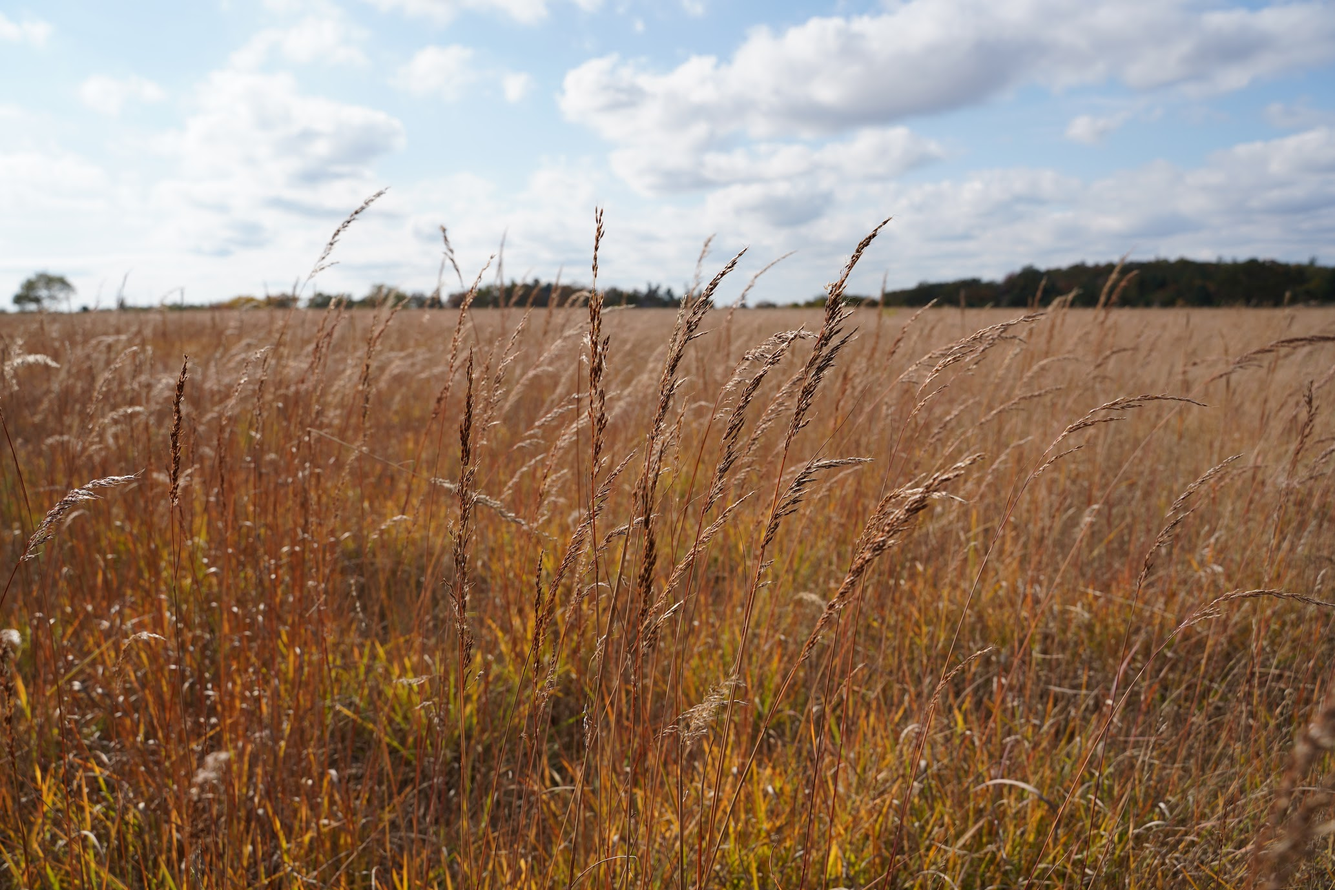
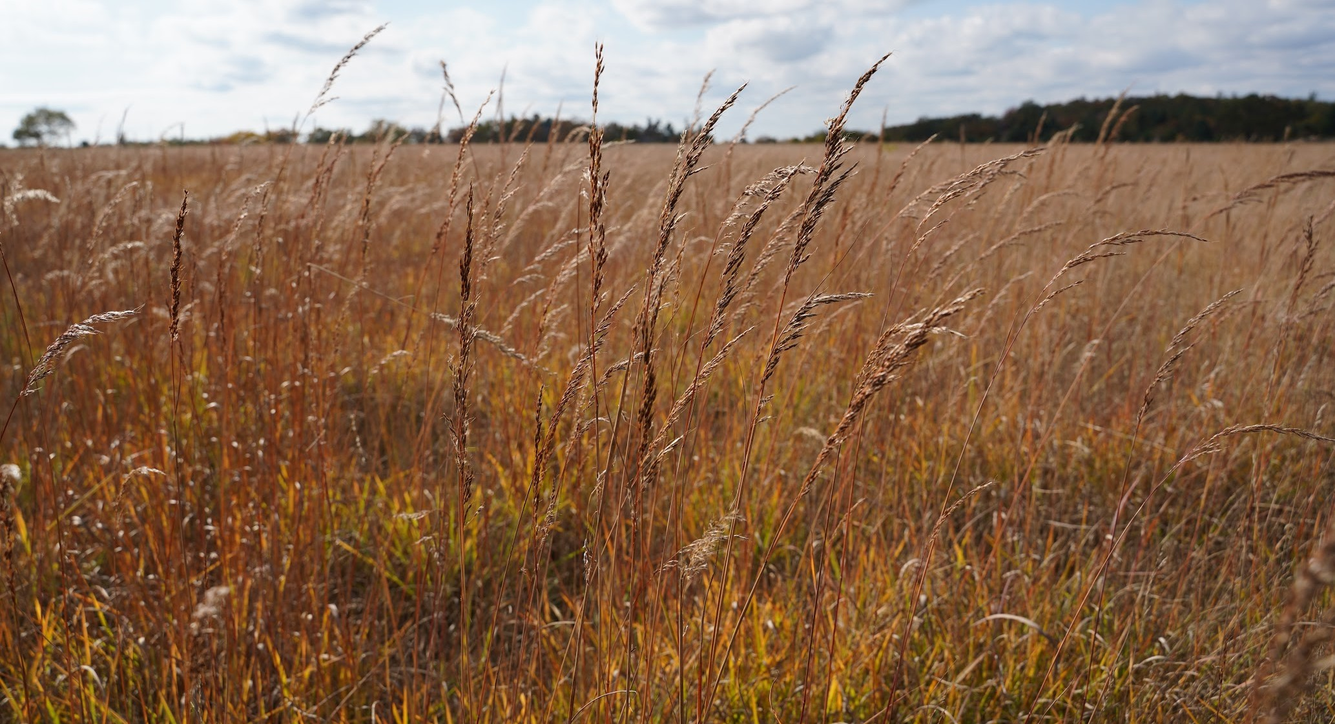
Change headers

diff --git a/index.html b/index.html
@@ -33,7 +33,7 @@
     <section class="col-12 outer-margin">
         <div class="main-header">
             <div class ="header-overlay header-overlay-gradient">
-                <h1 class="header-title">Headwater Streams Mapping in the Rice Lake Plains and Lake Iroquois Plain</h1>
+                <h1 class="page-title">Headwater Streams Mapping in the Rice Lake Plains and Lake Iroquois Plain</h1>
                 <p id="photo-credit">Photo Credit: Chelsea Marcantonio via the Nature Conservancy of Canada</p>
             </div>
         </div>
@@ -69,14 +69,20 @@
             <h3>Kathryn Little</h3>
             <h4>Applications Specialist</h4>
             <p>Bad at chemistry, better at GIS. Thinks volcanoes are cool. She is responsible for administration and documentation.</p>
-            <button type="button" class="button button2" onclick="window.open('mailto:placehoder@gmail.com')">Contact</button>
+            <div class="container">
+                <button type="button" class="button button2" onclick="window.open('mailto:littlekathrynj@gmail.com')">Email</button>
+                <button type="button" class="button button2" onclick="window.open('https://www.linkedin.com/in/littlekathryn/', '_blank')">LinkedIn</button>
+            </div>
         </div>
         <div class="col-4">
             <img class="headshot" src="images/kristine-bitmoji.png" alt="Kristine Headshot">
             <h3>Kristine Luangkhot</h3>
             <h4>Applications Specialist</h4>
             <p>Avid Tetris player and builder of Lego. Loves using software to solve problems. She is responsible for sourcing and processing data.</p>
-            <button type="button" class="button button2" onclick="window.open('mailto:ksluangkhot@gmail.com')">Contact</button>
+            <div class="container">
+                <button type="button" class="button button2" onclick="window.open('mailto:ksluangkhot@gmail.com')">Email</button>
+                <button type="button" class="button button2" onclick="window.open('https://www.linkedin.com/in/kristine-luangkhot-261042154/', '_blank')">LinkedIn</button>
+            </div>
         </div>
         <div class="col-4">
             <img class="headshot" src="images/james-icon.png" alt="James Headshot">
@@ -84,7 +90,10 @@
             <h4>Applications Specialist</h4>
             <p>Hypnotist, tai chi player, editor, teacher, Python programmer and GIS Analyst.  He is responsible for editing and development of 
             apps and scripts.</p>
-            <button type="button" class="button button2" onclick="window.open('mailto:placehoder@gmail.com')">Contact</button>
+            <div class="container">
+                <button type="button" class="button button2" onclick="window.open('mailto:jamesserendip@gmail.com')">Email</button>
+                <button type="button" class="button button2" onclick="window.open('https://www.linkedin.com/in/serendiphypnotherapy', '_blank')">LinkedIn</button>
+            </div>
         </div>
     </section>
     <footer class="col-12 outer-margin">
@@ -92,6 +101,7 @@
             <img src="images/FlemingSENRS_noBackground.png" alt="Fleming School of the Environment and Natural Resources Logo" style="height: 100%">
             <img src="images/FlemingGIS_000_SM.png" alt="Fleming GIS Program Logo" style="height: 100%">
             <img src="images/logo.png" alt="Happy Puppies Team Logo" style="height: 100%">
+            <img src="images/ncc_logo.png" alt="Nature Conservancy of Canada Logo" style="height: 100%">
             <p>&#9400; APST62 2021 The Happy Puppies</p>
         </div>
     </footer>

diff --git a/deliverables.html b/deliverables.html
@@ -32,15 +32,16 @@
     </header>
     <!-- Photo by Pankaj Patel on Unsplash J-->
     <section class="col-12 outer-margin">
-        <div class="solutions-header">
+        <div class="deliverables-header">
             <div class ="header-overlay header-overlay-gradient">
-                <h1 class="header-title">Esri Configurables</h1>
-                <p class="blurb-text">A walkthrough of the different software solutions we explored.</p>
+                <h1 class="page-title">Deliverables</h1>
+                <p class="blurb-text">Headwater streams, custom script tools, poster map and web application delivered to the client.</p>
+                <p id="photo-credit">Photo Credit: Chelsea Marcantonio via the Nature Conservancy of Canada</p>
             </div>
         </div>
     </section>
     <section class="col-12">
-        <h2 id="streams">Headwater Streams Modelling Results</h2>
+        <h2 id="streams">Hydrological Modelling Results</h2>
         <p class="section-style-1col">ArcGIS StoryMaps was investigated by Kathryn as a possible solution to accompany the ArcGIS 
             Experience Builder application. This was done in order to avoid some of the bugs that were being discovered while working 
             with Experience Builder. While working with StoryMaps, the biggest limitation that was noticed was the type of content 
@@ -169,13 +170,14 @@
         immediately identify, headwater streams, and their interconnected hierarchy of down-stream flow. And creating a platform in Hub to document
         our process has shown that Hub is relatively easy to use and a good way to showcase other ESRI web applications organized with explanatory
         text and images.</p>
-        <button type="button" class="button button2" onclick="window.open('https://rice-lake-plains-hydrology-fleming.hub.arcgis.com/', '_blank')">View Hub Site</button>
+        <p><button type="button" class="button button2" onclick="window.open('https://rice-lake-plains-hydrology-fleming.hub.arcgis.com/', '_blank')">View Hub Site</button></p>
     </section>
     <footer class="col-12 outer-margin">
         <div id="footer-images">
             <img src="images/FlemingSENRS_noBackground.png" alt="Fleming School of the Environment and Natural Resources Logo" style="height: 100%">
             <img src="images/FlemingGIS_000_SM.png" alt="Fleming GIS Program Logo" style="height: 100%">
             <img src="images/logo.png" alt="Happy Puppies Team Logo" style="height: 100%">
+            <img src="images/ncc_logo.png" alt="Nature Conservancy of Canada Logo" style="height: 100%">
             <p>&#9400; APST62 2021 The Happy Puppies</p>
         </div>
     </footer>

diff --git a/css/stylesheet.css b/css/stylesheet.css
@@ -51,7 +51,7 @@ li {
 }
 
 .navbar {
-	display: block;
+  display: block;
   margin-top: 0em;
   margin-bottom: 0em;
   margin-right: 0px;
@@ -65,7 +65,7 @@ li {
 
 /* Change font and text colour of the navigation bar items to match chosen colour scheme */
 .navbar a {
-	float: left;
+  float: left;
   display: block;
   font-family:"Helvetica", Arial, sans-serif;
   color: #FFFFFF99;
@@ -127,25 +127,25 @@ Date: November 28, 2020
 /* Apply style to header section with background image and text */
 .main-header {
 	background-image: url("../images/DSC00571.JPG");
-	min-height: 500px;
+	margin-top: 46px;
 	background-attachment: fixed;
 	background-position: center;
 	background-repeat: no-repeat;
 	background-size: cover;
 }
 
-.solutions-header {
-	background-image: url("../images/pankaj-patel-u2Ru4QBXA5Q-unsplash.jpg");
-	min-height: 500px;
+.methodology-header {
+	background-image: url("../images/DSC_0350.JPG");
+	margin-top: 46px;
 	background-attachment: fixed;
 	background-position: center;
 	background-repeat: no-repeat;
 	background-size: cover;
 }
 
-.timeline-header {
+.deliverables-header {
 	background-image: url("../images/vidar-nordli-mathisen-Kuu5mmxkwW4-unsplash.jpg");
-	min-height: 500px;
+	margin-top: 46px;
 	background-attachment: fixed;
 	background-position: center;
 	background-repeat: no-repeat;
@@ -154,7 +154,6 @@ Date: November 28, 2020
 
 .header-overlay {
 	color: white;
-	height: 500px;
 }
 
 /*Source for gradient from https://www.w3schools.com/css/css3_gradients.asp*/
@@ -163,21 +162,25 @@ Date: November 28, 2020
     opacity: 0.90;
 }
 
-.header-title {
-	margin-top: 0px;
-	padding-top: 200px;
-	padding-left: 10%;
-	padding-right: 10%;
+.page-title {
 	color: white;
 	font-size: 30pt;
     text-align: center;
+	margin-top: 0px;
+	margin-bottom: 0px;
+	padding-top: 10%;
+	padding-left: 10%;
+	padding-right: 10%;
 }
 
 #photo-credit {
+	margin-top: 0px;
+	margin-bottom: 0px;
+	padding-top: 10%;
+	padding-bottom: 1%;
+	padding-right: 1%;
 	font-size: 10pt;
 	text-align: right;
-	padding-top: 12%;
-	padding-right: 1%;
 }
 
 .blurb-text {
@@ -209,7 +212,7 @@ Date: November 28, 2020
 	padding: 16px 32px;
 	text-align: center;
 	text-decoration: none;
-	display: block;
+	display: inline-block;
 	margin-left: auto;
 	margin-right: auto;
 	font-size: 16px;
@@ -227,6 +230,11 @@ Date: November 28, 2020
 	background-color: #3182bd;
 	color: white;
   }
+
+  .container {
+	  text-align: center;
+  }
+
 /* Taken from https://www.w3schools.com/css/css_rwd_mediaqueries.asp
 Styles for small devices (phones and narrow tablets) */
   @media only screen and (min-width: 768px) {

diff --git a/methodology.html b/methodology.html
@@ -32,10 +32,11 @@
     </header>
     <!-- Photo by Vidar Nordli-Mathisen on Unsplash -->
     <section class="col-12 outer-margin">
-        <div class="timeline-header">
+        <div class="methodology-header">
             <div class ="header-overlay header-overlay-gradient">
-                <h1 class="header-title">Project Breakdown</h1>
-                <p class="blurb-text">All project milestones and lessons learned.</p>
+                <h1 class="page-title">Methodology</h1>
+                <p class="blurb-text">All the steps taken to complete the project.</p>
+                <p id="photo-credit">Photo Credit: Chelsea Marcantonio via the Nature Conservancy of Canada</p>
             </div>
         </div>
     </section>
@@ -181,6 +182,7 @@
             <img src="images/FlemingSENRS_noBackground.png" alt="Fleming School of the Environment and Natural Resources Logo" style="height: 100%">
             <img src="images/FlemingGIS_000_SM.png" alt="Fleming GIS Program Logo" style="height: 100%">
             <img src="images/logo.png" alt="Happy Puppies Team Logo" style="height: 100%">
+            <img src="images/ncc_logo.png" alt="Nature Conservancy of Canada Logo" style="height: 100%">
             <p>&#9400; APST62 2021 The Happy Puppies</p>
         </div>
     </footer>
